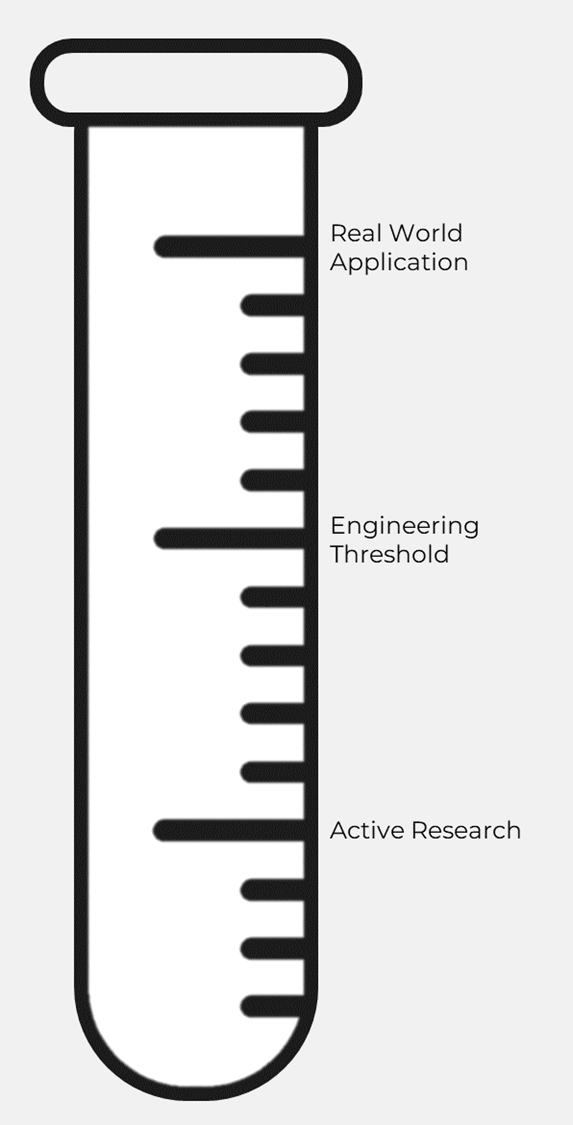
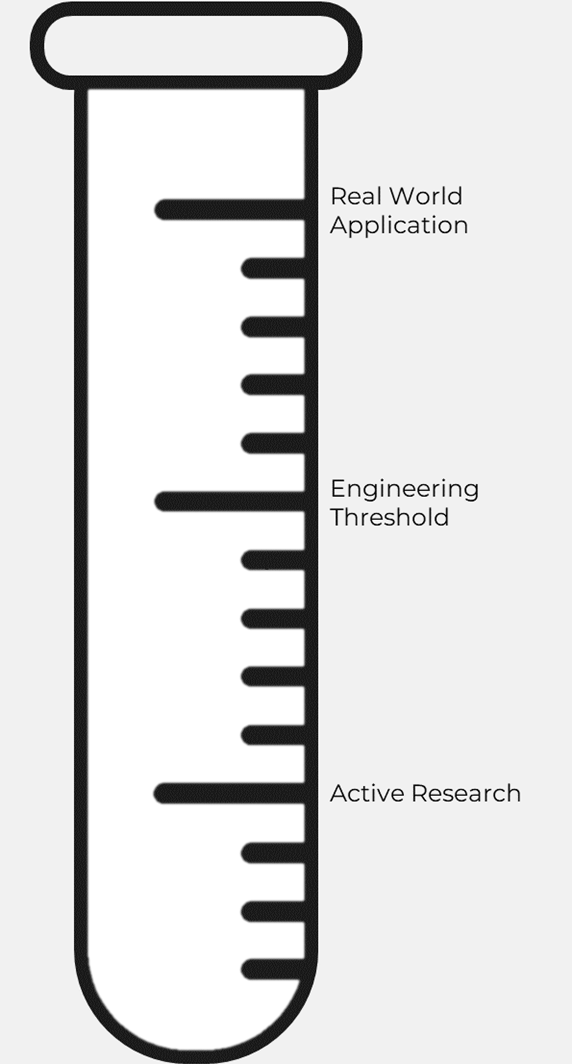
adding displayu

Changed region(s): [[0.0297, 0.0, 0.9213, 1.0]]

diff --git a/components/VirtualLab/ProgressScreen.js b/components/VirtualLab/ProgressScreen.js
@@ -1,18 +1,16 @@
 import React, { useState, useEffect } from 'react';
-import { View, Text, StyleSheet, Image, Animated, Dimensions, TouchableOpacity } from 'react-native';
+import { View, Text, StyleSheet, Image, Animated, Dimensions } from 'react-native';
 import { colors, sizes, spacing } from '../theme';
 import { LinearGradient } from 'expo-linear-gradient';
-import { ScrollView } from 'react-native-gesture-handler';
 
 const { width, height } = Dimensions.get('window');
 
 const ProgressScreen = ({ route }) => {
   const { labId, labDisplayName } = route.params;
-  const [progress] = useState(0.7);  // Example progress (70%)
+  const [progress] = useState(1);
   const [fillAnim] = useState(new Animated.Value(0));
 
   useEffect(() => {
-    // Animate the gauge filling based on the progress value
     Animated.timing(fillAnim, {
       toValue: progress,
       duration: 1000,
@@ -22,7 +20,7 @@ const ProgressScreen = ({ route }) => {
 
   const gaugeHeight = fillAnim.interpolate({
     inputRange: [0, 1],
-    outputRange: [0, 500], // Assuming the image height is 200px
+    outputRange: [0, height * 0.559],
   });
 
   return (
@@ -35,15 +33,16 @@ const ProgressScreen = ({ route }) => {
         </View>
       </LinearGradient>
       <View style={styles.bottomSection}>
+        <Text style={styles.gaugeTitle}>Lab Progress</Text>
         <View style={styles.gaugeContainer}>
           <Animated.View style={[styles.fillGauge, { height: gaugeHeight }]} />    
           <Image source={require('../../assets/Virtual_lab_icons/Gauge.png')} style={styles.gaugeImage} />
         </View>
-        <Text style={styles.progressText}>Progress: {(progress * 100).toFixed(0)}%</Text>
       </View>
     </View>
   );
 };
+
 const styles = StyleSheet.create({
   container: {
     flex: 1,
@@ -56,6 +55,8 @@ const styles = StyleSheet.create({
   bottomSection: {
     backgroundColor: colors.primaryBis,
     width: width,
+    justifyContent: 'center',
+    height: 3 * height / 4,
   },
   labTitle: {
     fontSize: sizes.title,
@@ -73,22 +74,26 @@ const styles = StyleSheet.create({
   gaugeContainer: {
     justifyContent: 'center',
     alignItems: 'center',
+    backgroundColor: colors.primaryBis,
   },
   gaugeImage: {
+    width: '80%',
+    height: height * 0.6,
     resizeMode: 'contain',
+    marginBottom: 0,
   },
   fillGauge: {
     position: 'absolute',
-    width: '80%',
-    height: '100%',
-    backgroundColor: colors.darkblue,
+    bottom: 0,
+    width: '60%',
+    backgroundColor: colors.darkblue
   },
-  progressText: {
+  gaugeTitle: {
     fontSize: sizes.h2,
     color: colors.secondary,
-    fontFamily: 'Montserrat',
+    marginBottom: spacing.s,
     textAlign: 'center',
-    marginTop: spacing.m,
+    fontFamily: 'Montserrat',
   },
 });
 
